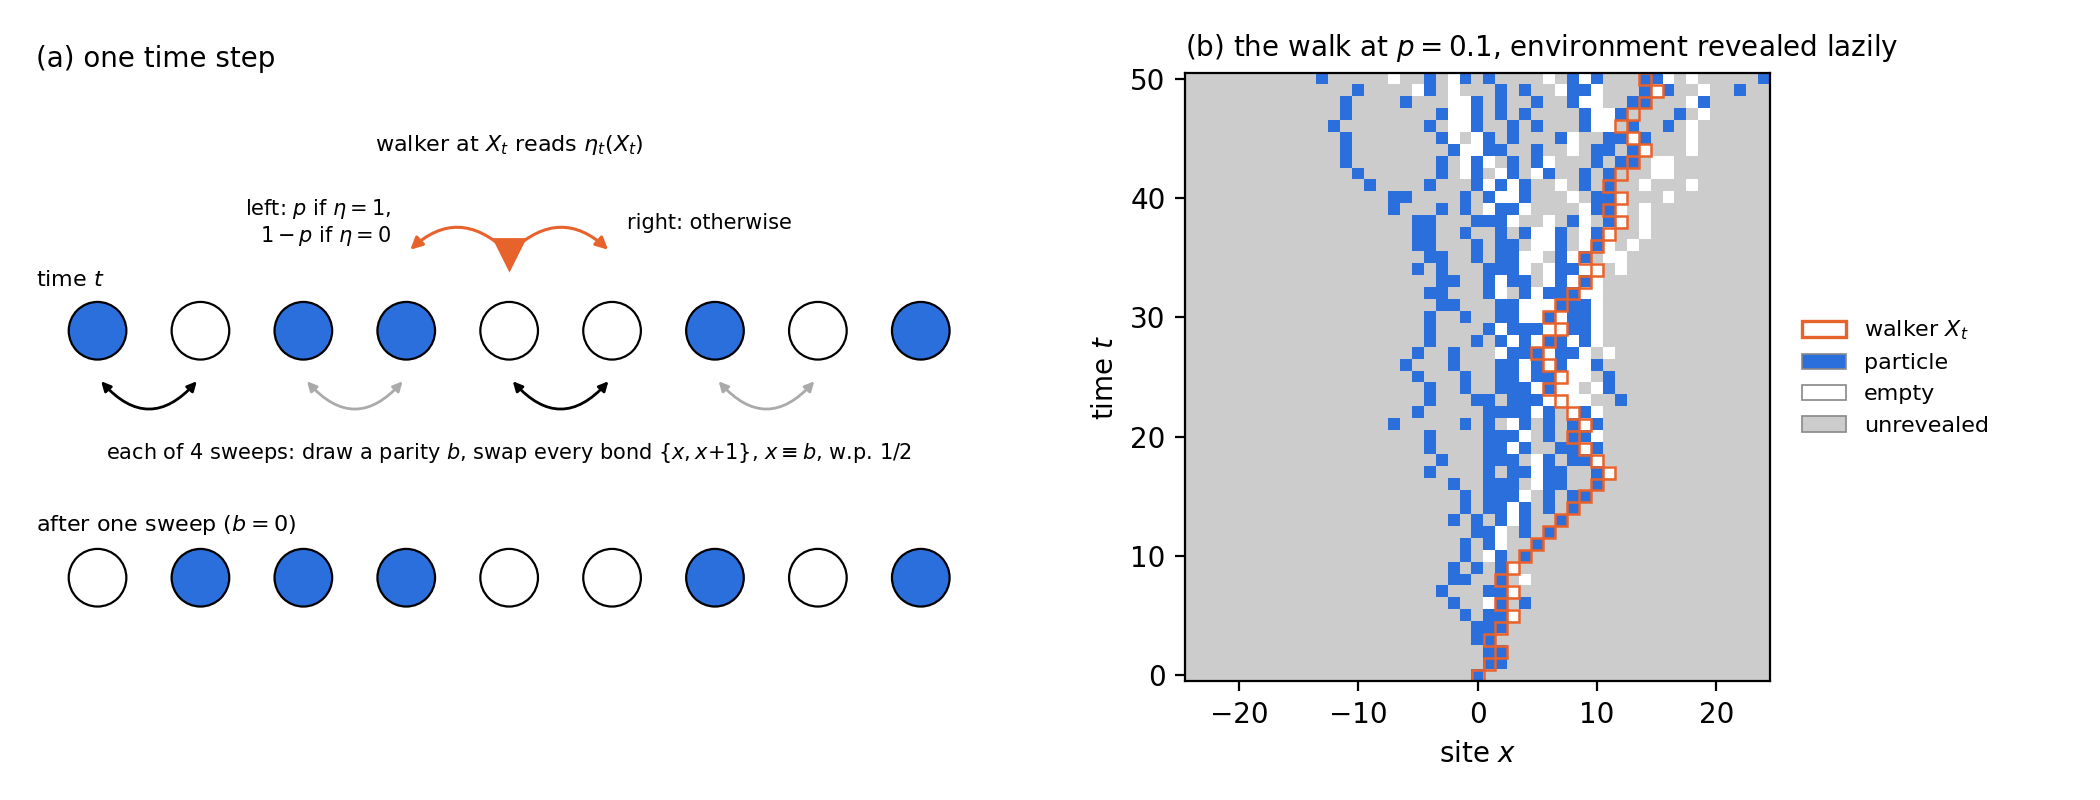
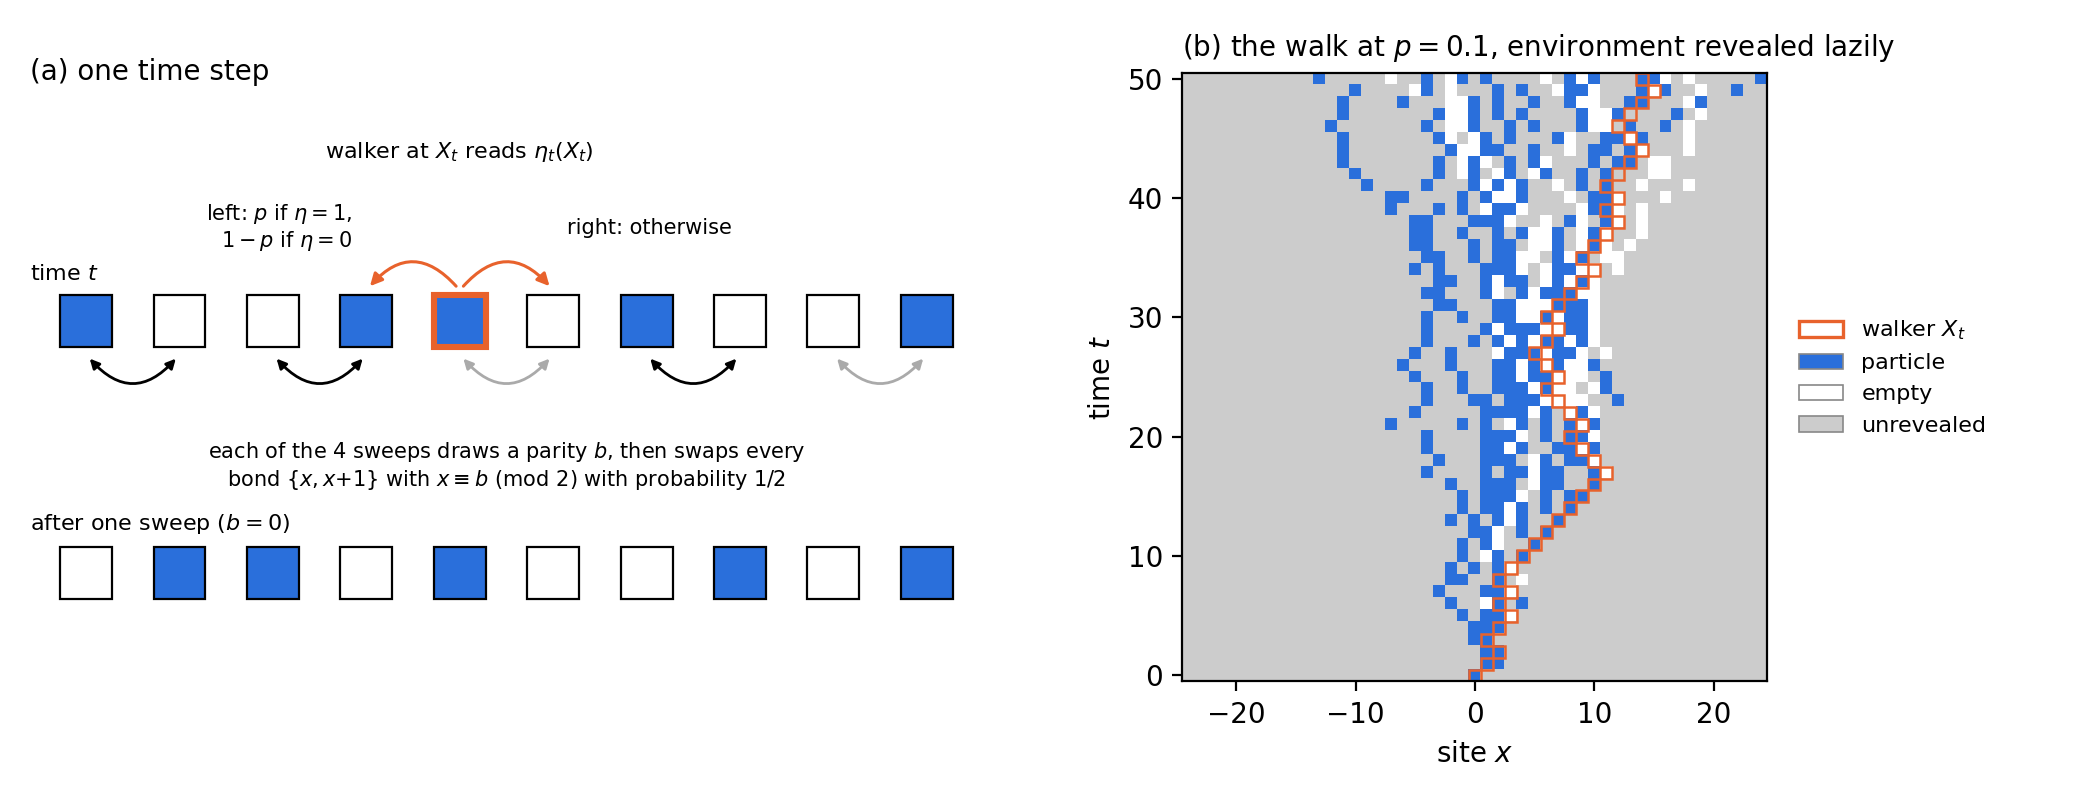
redraw the RWRE schematic with square sites
Walker shown as a red border as in panel (b), gap 4/5 of the side, the full
sweep sentence, and 10 sites so the swapped bonds do not alternate.

diff --git a/experiments/50_rwre_lazy_long_omega/plot_dynamics.py b/experiments/50_rwre_lazy_long_omega/plot_dynamics.py
@@ -40,7 +40,7 @@ matplotlib.use("Agg")
 import matplotlib.pyplot as plt  # noqa: E402
 import numpy as np  # noqa: E402
 from matplotlib.colors import ListedColormap  # noqa: E402
-from matplotlib.patches import Circle, FancyArrowPatch, Rectangle  # noqa: E402
+from matplotlib.patches import FancyArrowPatch, Rectangle  # noqa: E402
 
 EXP = Path(__file__).resolve().parent
 ROOT = EXP.parents[1]
@@ -50,6 +50,7 @@ PARTICLE = "#2a6fdb"
 EMPTY = "#ffffff"
 HIDDEN = "#cccccc"
 SWEEPS = 4
+SIDE = 1 / 1.8                 # schematic squares: gap = 4/5 of the side
 UNREVEALED, HOLE, PART = -1, 0, 1
 
 
@@ -139,44 +140,55 @@ def check_law(p: float, steps: int, n: int, seed: int) -> None:
 
 
 def schematic(ax: plt.Axes) -> None:
-    """One step: the walker's read and jump, then one sweep's swaps."""
-    ax.set_xlim(-0.6, 8.6)
-    ax.set_ylim(-3.3, 2.4)
+    """One step: the walker's read and jump, then one sweep's swaps.
+
+    Sites are squares of side SIDE at unit pitch, so the gap is 4/5 of the side
+    (user, 2026-11-10). The swapped bonds are not every other one (user: a
+    regular pattern reads as if the swaps, too, alternated by parity).
+    """
+    ax.set_xlim(-0.6, 9.6)
+    ax.set_ylim(-3.6, 2.4)
     ax.set_aspect("equal")
     ax.axis("off")
-    occ = [1, 0, 1, 1, 0, 0, 1, 0, 1]
+    half = SIDE / 2
+    occ = [1, 0, 0, 1, 1, 0, 1, 0, 0, 1]
     xw = 4
-    for row_y, label in ((0.0, "time $t$"), (-2.4, "after one sweep ($b = 0$)")):
-        ax.text(-0.6, row_y + 0.4, label, fontsize=8, ha="left", va="bottom")
-    # top row: environment at time t
-    for k, o in enumerate(occ):
-        ax.add_patch(Circle((k, 0), 0.28, facecolor=PARTICLE if o else EMPTY,
-                            edgecolor="black", lw=0.8))
-    ax.plot([xw], [0.75], marker="v", ms=11, color=WALKER)
+
+    def row(values: list[int], y: float) -> None:
+        for k, o in enumerate(values):
+            ax.add_patch(Rectangle((k - half, y - half), SIDE, SIDE,
+                                   facecolor=PARTICLE if o else EMPTY,
+                                   edgecolor="black", lw=0.8))
+
+    for row_y, label in ((0.0, "time $t$"), (-2.7, "after one sweep ($b = 0$)")):
+        ax.text(-0.6, row_y + half + 0.12, label, fontsize=8, ha="left", va="bottom")
+    # top row: environment at time t, the walker's site outlined as in panel (b)
+    row(occ, 0.0)
+    ax.add_patch(Rectangle((xw - half, -half), SIDE, SIDE, facecolor="none",
+                           edgecolor=WALKER, lw=2.2, zorder=3))
     ax.text(xw, 1.75, r"walker at $X_t$ reads $\eta_t(X_t)$", fontsize=8, ha="center")
     for dx in (-1, 1):
-        ax.add_patch(FancyArrowPatch((xw, 0.75), (xw + dx, 0.75), arrowstyle="-|>",
-                                     mutation_scale=9, color=WALKER, lw=1.1,
-                                     connectionstyle=f"arc3,rad={-0.5 * dx}"))
-    ax.text(xw - 1.15, 1.05, r"left: $p$ if $\eta=1$," "\n" r"$1-p$ if $\eta=0$",
+        ax.add_patch(FancyArrowPatch((xw, half + 0.05), (xw + dx, half + 0.05),
+                                     arrowstyle="-|>", mutation_scale=9, color=WALKER,
+                                     lw=1.1, connectionstyle=f"arc3,rad={-0.6 * dx}"))
+    ax.text(xw - 1.15, 1.0, r"left: $p$ if $\eta=1$," "\n" r"$1-p$ if $\eta=0$",
             fontsize=7.5, ha="right", va="center")
-    ax.text(xw + 1.15, 1.05, "right: otherwise", fontsize=7.5, ha="left", va="center")
-    # one sweep, parity b = 0: bonds {0,1}, {2,3}, {4,5}, {6,7}; each swaps w.p. 1/2
-    swapped = [True, False, True, False]
+    ax.text(xw + 1.15, 1.0, "right: otherwise", fontsize=7.5, ha="left", va="center")
+    # one sweep, parity b = 0: bonds {0,1}, {2,3}, ..., {8,9}; each swaps w.p. 1/2
+    swapped = [True, True, False, True, False]
     new = occ.copy()
-    for j, s in enumerate(swapped):
+    for j, sw in enumerate(swapped):
         a = 2 * j
-        ax.add_patch(FancyArrowPatch((a, -0.45), (a + 1, -0.45), arrowstyle="<|-|>",
-                                     mutation_scale=7, lw=1.0,
-                                     color="black" if s else "#aaaaaa",
+        ax.add_patch(FancyArrowPatch((a, -half - 0.08), (a + 1, -half - 0.08),
+                                     arrowstyle="<|-|>", mutation_scale=7, lw=1.0,
+                                     color="black" if sw else "#aaaaaa",
                                      connectionstyle="arc3,rad=0.6"))
-        if s:
+        if sw:
             new[a], new[a + 1] = new[a + 1], new[a]
-    ax.text(4, -1.25, r"each of $4$ sweeps: draw a parity $b$, swap every bond "
-            r"$\{x, x{+}1\}$, $x \equiv b$, w.p. $1/2$", fontsize=7.5, ha="center")
-    for k, o in enumerate(new):
-        ax.add_patch(Circle((k, -2.4), 0.28, facecolor=PARTICLE if o else EMPTY,
-                            edgecolor="black", lw=0.8))
+    ax.text(4.5, -1.55, r"each of the $4$ sweeps draws a parity $b$, then swaps every"
+            "\n" r"bond $\{x, x{+}1\}$ with $x \equiv b\ (\mathrm{mod}\ 2)$ with probability $1/2$",
+            fontsize=7.5, ha="center", va="center")
+    row(new, -2.7)
 
 
 def main() -> None:
